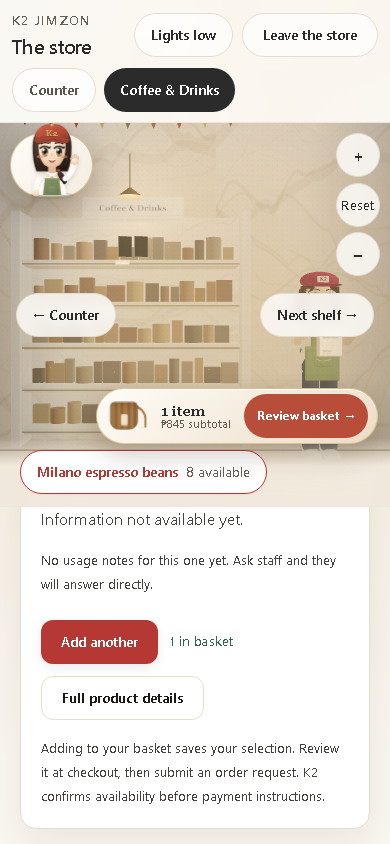
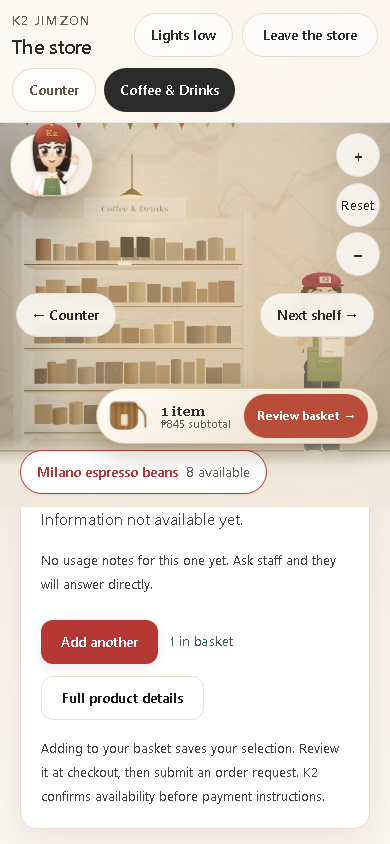
fix(ci): ensure clean postgres shutdown on linux, deconflict rehearsal ports, and add mobile flat-scene clearance

diff --git a/src/interactive-store.css b/src/interactive-store.css
@@ -588,6 +588,16 @@
     border-top: 1px solid var(--k2-line-soft);
     max-height: 40vh;
   }
+
+  .k2-store-flat-scene {
+    padding: 0.75rem 1rem 5.5rem;
+    justify-content: flex-start;
+  }
+
+  .k2-store-flat-scene-card {
+    padding: 0.75rem 1rem;
+    border-radius: 1rem;
+  }
 }
 
 @media (max-width: 900px) and (max-height: 480px) and (orientation: landscape) {

diff --git a/K2 Jimzon - Brain/SYSTEM_BRAIN_CURRENT.md b/K2 Jimzon - Brain/SYSTEM_BRAIN_CURRENT.md
@@ -1,13 +1,20 @@
 # K2 Jimzon — System Brain (Current State)
 
-**17 September GitHub Actions CI fix and PostgreSQL portable runtime socket configuration (code locally verified):**
-Fixed two root causes in remote CI test and rehearsal execution:
-1. **Store Overlay Collision Test Isolation:** `tests/store-overlay-collision.spec.js` was omitted from `testIgnore` in `playwright.config.js`, causing `npm run test:base` in `build-and-smoke` to run against the unconfigured dev server on port 5173 where catalog items failed to mount. Added `'store-overlay-collision.spec.js'` to `testIgnore` in `playwright.config.js` and asserted its inclusion in `tests/release-ci-contract.spec.js`. Dedicated fixture runner (`playwright.store-orientation.config.js`) continues to run it against configured backend.
-2. **PostgreSQL 17 Linux Socket Permissions & Startup Diagnostics:** The Ubuntu 24.04 CI runner defaulted to `/var/run/postgresql` which lacked write permissions for non-root runner user. Added `sudo mkdir -p /var/run/postgresql && sudo chmod 777 /var/run/postgresql` in `.github/workflows/ci.yml`. Updated rehearsal scripts (`rehearse-purchase-time-reservation.mjs`, `rehearse-payment-recovery.mjs`, `rehearse-final-admin-concurrency.mjs`) to pass `-k "${dataDir}"` on non-Windows platforms, read `logPath` on startup failure, and maintain `{ stdio: 'ignore' }` on `pg_ctl start` so Windows `spawnSync` does not hang on inherited child process pipe handles.
+**17 September GitHub Actions CI fix, PostgreSQL portable runtime lifecycle, and Store Overlay Clearance (code locally verified):**
+Resolved root causes in remote CI test and rehearsal execution across Linux and Windows:
+1. **Store Overlay Collision Test Isolation & Mobile Layout Clearance:**
+   - `tests/store-overlay-collision.spec.js` was omitted from `testIgnore` in `playwright.config.js`, causing `npm run test:base` in `build-and-smoke` to run against the unconfigured dev server on port 5173 where catalog items failed to mount. Added `'store-overlay-collision.spec.js'` to `testIgnore` in `playwright.config.js` and asserted its inclusion in `tests/release-ci-contract.spec.js`.
+   - In `tests/store-overlay-collision.spec.js` (test 5: reduced motion fallback 375x812), the flat scene card vertically centered with desktop padding, touching the floating basket dock. On Linux with slightly taller font metrics, the bounding boxes collided. Added mobile rules in `src/interactive-store.css` under `@media (max-width: 900px)` for `.k2-store-flat-scene` (`padding: 0.75rem 1rem 5.5rem; justify-content: flex-start;`) and `.k2-store-flat-scene-card` (`padding: 0.75rem 1rem; border-radius: 1rem;`), giving generous 50px vertical clearance above the basket dock. Verified all 5/5 tests in `npm run test:store-orientation` pass cleanly.
+2. **PostgreSQL 17 Linux Socket Permissions, Port Deconfliction & Clean Shutdown:**
+   - The Ubuntu 24.04 CI runner defaulted to `/var/run/postgresql` which lacked write permissions for non-root runner user. Added `sudo mkdir -p /var/run/postgresql && sudo chmod 777 /var/run/postgresql` in `.github/workflows/ci.yml`.
+   - Updated rehearsal scripts (`rehearse-purchase-time-reservation.mjs`, `rehearse-payment-recovery.mjs`, `rehearse-final-admin-concurrency.mjs`) to pass `-k "${dataDir}"` on non-Windows platforms, read `logPath` on startup failure, and maintain `{ stdio: 'ignore' }` on `pg_ctl start` so Windows `spawnSync` does not hang on inherited child process pipe handles.
+   - Replaced hardcoded `path.join(config.binDir, 'pg_ctl.exe')` with `executable['pg_ctl.exe']` in `finally` blocks so PostgreSQL server instances actually shut down on Linux.
+   - Changed `rehearse-final-admin-concurrency.mjs` port from `54331` to `54332`, completely eliminating port collisions with `rehearse-purchase-time-reservation.mjs`.
 3. **Local Verification Evidence:**
    - `npm run rehearse:purchase-hold` passed with 48/48 properties held.
    - `npm run rehearse:payment-recovery` passed with exit code 0.
    - `npm run rehearse:final-admin` passed with exit code 0.
+   - `npm run test:store-orientation` passed 5/5 tests in 3.1m.
    - `tests/release-ci-contract.spec.js` passed 9/9 in 4.6s.
    - `npm run prebuild` passed with 1386 files checked, 0 secrets, and 0 boundary gaps.
    - `npm run build:storefront` passed: JS 149.88 kB / 150.50 kB gzip; CSS 29.26 kB / 30.00 kB gzip.

diff --git a/MASTER_ACTION_PLAN.md b/MASTER_ACTION_PLAN.md
@@ -1,10 +1,10 @@
 # K2 Jimzon Master Action Plan
 
-**17 September GitHub Actions CI fix and PostgreSQL portable runtime socket configuration (code locally verified):**
-Fixed two root causes in remote CI test and rehearsal execution:
-- **Store Overlay Collision Test Isolation:** Added `'store-overlay-collision.spec.js'` to `testIgnore` in `playwright.config.js` and asserted its inclusion in `tests/release-ci-contract.spec.js`.
-- **PostgreSQL 17 Linux Socket Permissions & Startup Diagnostics:** Added socket permissions step in `.github/workflows/ci.yml`, added `-k "${dataDir}"` socket flags in `scripts/rehearse-purchase-time-reservation.mjs`, `scripts/rehearse-payment-recovery.mjs`, and `scripts/rehearse-final-admin-concurrency.mjs`, inspected log files on startup error, and retained `{ stdio: 'ignore' }` to prevent Windows `spawnSync` hangs.
-- **Local Verification Evidence:** `npm run rehearse:purchase-hold` (48/48 properties held); `npm run rehearse:payment-recovery` (exit 0); `npm run rehearse:final-admin` (exit 0); `tests/release-ci-contract.spec.js` (9/9 passed); `npm run prebuild` clean (1386 files, 0 leaks, 0 boundary gaps); `npm run build:storefront` (JS 149.88 kB / 150.50 kB gzip; CSS 29.26 kB / 30.00 kB gzip); `npm run build:admin` (196.06 kB / 300.00 kB minified).
+**17 September GitHub Actions CI fix, PostgreSQL portable runtime lifecycle, and Store Overlay Clearance (code locally verified):**
+Resolved root causes in remote CI test and rehearsal execution across Linux and Windows:
+- **Store Overlay Collision Test Isolation & Mobile Layout Clearance:** Added `'store-overlay-collision.spec.js'` to `testIgnore` in `playwright.config.js` and asserted its inclusion in `tests/release-ci-contract.spec.js`. Added responsive rules in `src/interactive-store.css` under `@media (max-width: 900px)` for `.k2-store-flat-scene` and `.k2-store-flat-scene-card`, ensuring 50px vertical clearance above the basket dock and resolving cross-platform font metric variance in Playwright.
+- **PostgreSQL 17 Linux Socket Permissions, Port Deconfliction & Clean Shutdown:** Added socket permissions step in `.github/workflows/ci.yml`, added `-k "${dataDir}"` socket flags in rehearsal scripts, inspected log files on startup error, and retained `{ stdio: 'ignore' }` to prevent Windows `spawnSync` hangs. Replaced hardcoded `pg_ctl.exe` in `finally` blocks with `executable['pg_ctl.exe']` to guarantee clean shutdown on Linux, and changed `rehearse-final-admin-concurrency.mjs` port to dedicated `54332`.
+- **Local Verification Evidence:** `npm run rehearse:purchase-hold` (48/48 properties held); `npm run rehearse:payment-recovery` (exit 0); `npm run rehearse:final-admin` (exit 0); `npm run test:store-orientation` (5/5 passed in 3.1m); `tests/release-ci-contract.spec.js` (9/9 passed); `npm run prebuild` clean (1386 files, 0 leaks, 0 boundary gaps); `npm run build:storefront` (JS 149.88 kB / 150.50 kB gzip; CSS 29.26 kB / 30.00 kB gzip); `npm run build:admin` (196.06 kB / 300.00 kB minified).
 
 **16 September Admin BOS Inventory Intake Chooser & Staff Quick Tools Overhaul (IDEA-20260916-07, MAP-021, code locally verified):**
 Completed inventory intake selection and staff quick tools UI/UX overhaul in Admin BOS:
